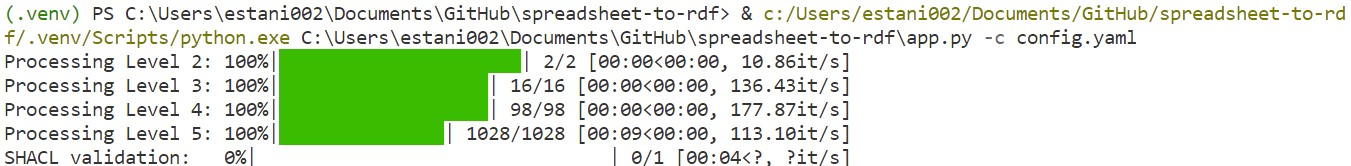
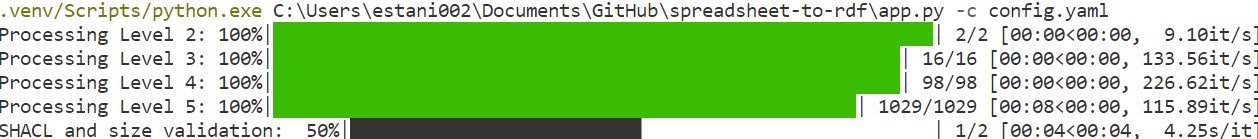
updated documentation

diff --git a/README.md b/README.md
@@ -6,7 +6,7 @@ This application converts taxonomy data from an Excel file into RDF format, acco
   
 - Converts taxonomy data from Excel files into RDF format.
 - Evaluates the languages of labels to add the English labels and find potential typos in the definitions. 
-- Validates RDF content against SHACL shape.
+- Performs size check (input vs output), looks for duplicate values, validates RDF content against SHACL shape.
 
 ## Instructions
 
@@ -107,9 +107,9 @@ Transformer.py
 - adding_triples(taxo_excel, taxo_graph, level, highest_level, column_names, D4W_NAMESPACE, rules, default_language, default_version, create_english_labels, creation_date, default_status, checkmispell): Processes taxonomy data and adds RDF triples to the graph based on the level of taxonomy, calling the functions add_concept(), add_topConcept() and add_conceptScheme().
 
 Create_triples.py
-- add_concept(taxonomy, namespace, concept, level, rules, default_language, default_version, create_english_labels, default_status, checkmispell): Adds RDF triples representing a concept to the graph. 
-- add_topConcept(taxonomy, namespace, concept, level, rules, default_language, default_version, create_english_labels, default_status, checkmispell): Adds RDF triples for a top-level concept and links it to the taxonomy scheme.
-- add_conceptScheme(taxonomy, namespace, concept, level, rules, default_language, default_version, create_english_labels, creation_date): Adds RDF triples representing a concept scheme, including metadata like creation date.
+- add_concept(taxonomy, namespace, concept, level, rules, default_language, default_version, create_english_labels, default_status, checkmispell, column_names): Adds RDF triples representing a concept to the graph. 
+- add_topConcept(taxonomy, namespace, concept, level, rules, default_language, default_version, create_english_labels, default_status, checkmispell, column_names): Adds RDF triples for a top-level concept and links it to the taxonomy scheme.
+- add_conceptScheme(taxonomy, namespace, concept, level, rules, default_language, default_version, create_english_labels, creation_date, column_names): Adds RDF triples representing a concept scheme, including metadata like creation date.
 
 These functions rely on [lingua-language-detector](https://github.com/pemistahl/lingua-py) library; which is configured with English and French language detectors, to see if a label is in English or French (default).
 By default all the labels have French suffix (@fr). If the label is detected to be English, the label is also added with English suffix (@en).
@@ -127,10 +127,15 @@ Data_utils.py
 - cleaning_label(label, uri, rules): Cleans a label by replacing special characters with spaces and capitalizing the first letter.
 - check_mispell(definition): Find typos in the definitions. This function relies on [phunspell](https://github.com/dvwright/phunspell) library, in turn based on [spylls](https://github.com/zverok/spylls), searching on the [French](https://github.com/dvwright/phunspell/tree/main/phunspell/data/dictionary/fr_FR) and [English](https://github.com/dvwright/phunspell/tree/main/phunspell/data/dictionary/en) vocabularies. As there are many nouns, not really typos, the potential mispells are inserted in the [log file](https://github.com/DigitalWallonia/spreadsheet-to-rdf/blob/main/changes.log).
 - get_uri(namespace, concept, level): Constructs a URI for a concept within a specified namespace and level.
+- find_duplicate_values(taxo_graph): Finds duplicate values in the taxonomy labels and logs them.
+- taxonomy_size_validation(taxo_graph, taxo_size): Validates the size of the taxonomy graph against an expected number of concepts or schemes.
 - shacl_validation(turtle_data, validation_server, output_format, validation_version): Validates RDF data using the ITB Shacl Validator.
 
 ## Validation
-After generating the RDF file, the application validates it against a SHACL API endpoint at http://localhost:8080/shacl/d4wta-ap/api/validate, specified in the configuration file. Ensure this endpoint is accessible and configured to process validation requests.
+After generating the RDF file, the transformer.py perform 2 validation steps:
+
+1. comparing the number of concept extracted from the spreadsheet vs the number of concepts (including concept scheme) in the RDF generated thanks to the taxonomy_size_validation() function.
+2. it validates the RDF against a SHACL API endpoint at http://localhost:8080/shacl/d4wta-ap/api/validate, specified in the configuration file. Ensure this endpoint is accessible and configured to process validation requests.
 
 ### Error Handling
-If the validation fails or the API returns an error, the application will log the status code and error message. Ensure the API service is running and accessible.
+If the application fails or the API returns an error, the application will log the error message.
